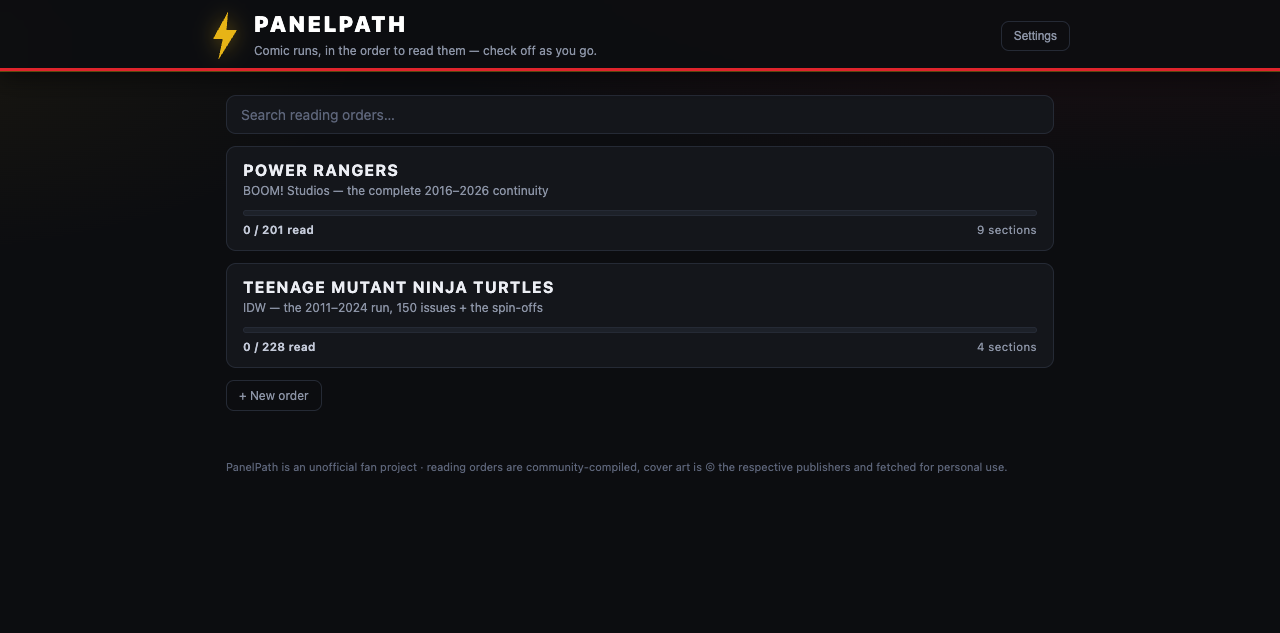
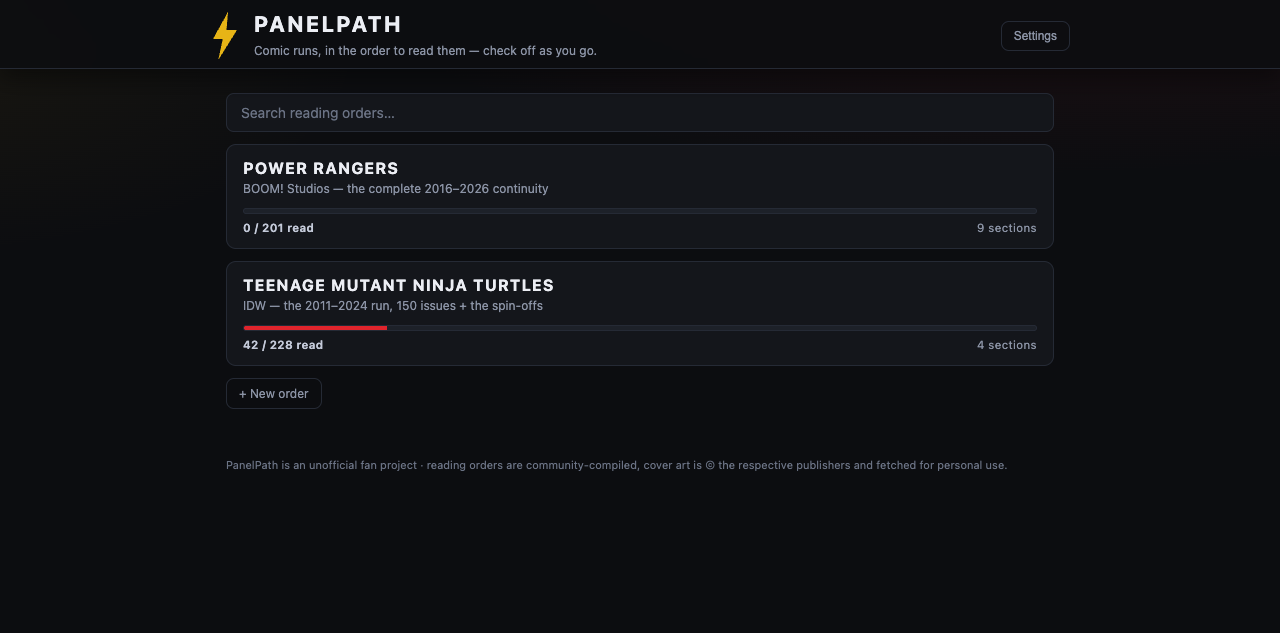
Fix relative DATA_DIR handling; refresh README screenshots
- DATA_DIR is now resolved to an absolute path (res.sendFile threw for relative DATA_DIR values like ./data-dev, returning 500s that browsers could cache)
- README screenshots re-captured for the current design (hairlines, flat bars, current header/popups)

diff --git a/server.js b/server.js
@@ -5,7 +5,7 @@ const { validateOrder } = require("./lib/validate.js");
 
 const app = express();
 const PORT = process.env.PORT || 5175;
-const DATA_DIR = process.env.DATA_DIR || path.join(__dirname, "data");
+const DATA_DIR = path.resolve(process.env.DATA_DIR || path.join(__dirname, "data"));
 const BUNDLED_ORDERS_DIR = path.join(__dirname, "data", "orders");
 const USER_ORDERS_DIR = path.join(DATA_DIR, "orders");
 const COVERS_DIR = path.join(DATA_DIR, "covers");
